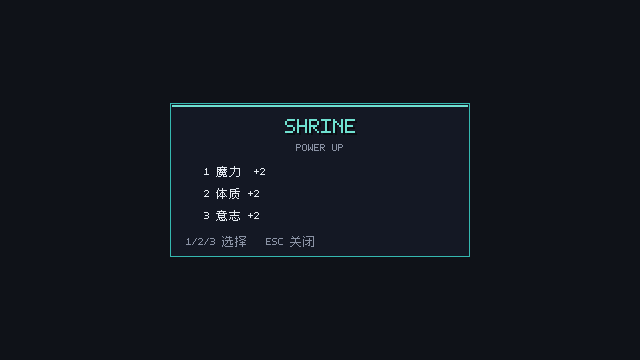
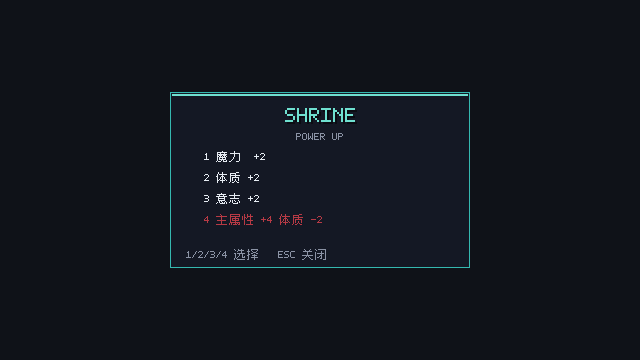
feat: shrine risk option

diff --git a/README.md b/README.md
@@ -25,7 +25,7 @@
 - **时空反噬**：时间停止命中免疫眩晕的 Boss 时，改为减速 2 回合并追加 0.5× 攻击反噬。
 - **7 种敌人**：新增深渊幽魂，远程攻击附带 2 回合灼烧；第 2/3 层生成。
 - **精英词缀**：第 2 层起，非 Boss 敌人有约 16% 概率带迅捷（速度 +15）、重甲（护甲 +3）或吸血（命中回复 20% 伤害）；头顶显示 SWIFT / ARM / VAMP，并用青色/灰色/红色调区分模型。
-- **祭坛**：每层一处；踩上去三选一永久强化（主属性 / 体质 / 意志 +2），Esc 可离开，使用后消失；HUD 显示 SHRINE 面板。
+- **祭坛**：每层一处；踩上去四选一：主属性 / 体质 / 意志 +2，或 RISK 主属性 +4、体质 -2；Esc 可离开，使用后消失；HUD 显示 SHRINE 面板。
 - **无窗口验证**：headless 截图；自动跑局用于 QA。
 
 ![select](docs/screenshots/run_select.png)
